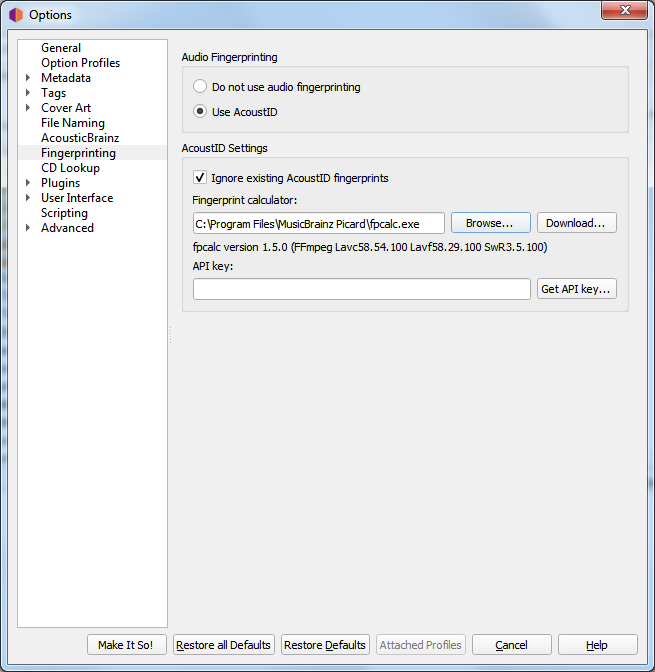
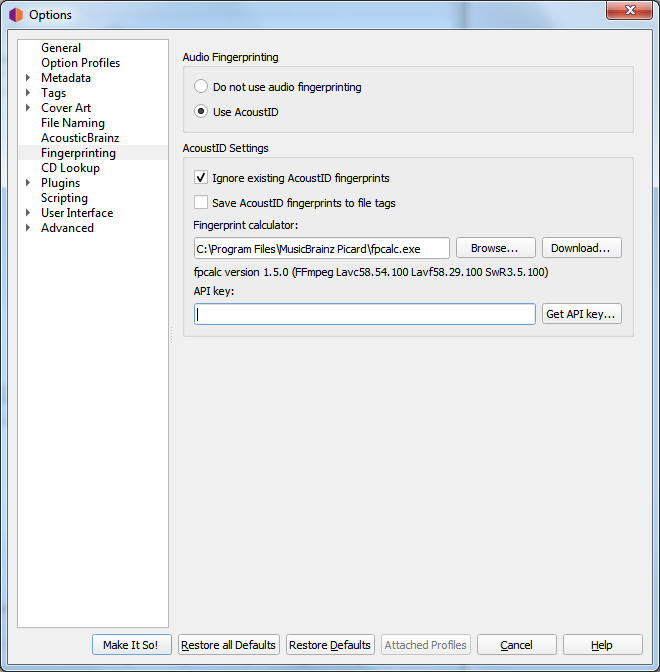
Add "Save AcoustID fingerprint to file tags" option

diff --git a/config/options_fingerprinting.rst b/config/options_fingerprinting.rst
@@ -17,13 +17,21 @@ MusicBrainz currently supports only `AcoustID <https://musicbrainz.org/doc/Acous
 **Audio Fingerprinting**
 
    This allows you to select whether or not to enable acoustic fingerprinting within Picard.
-   If acoustic fingerprinting is diabled then all remaining options in this tab will be locked and
+   If acoustic fingerprinting is disabled then all remaining options in this tab will be locked and
    ignored.
 
 **Ignore existing AcoustID fingerprints**
 
    When checked, any existing AcoustID fingerprint information will not be used, and the files will be
    rescanned.
+
+**Save AcoustID fingerprints to file tags**
+
+   When checked, the AcoustID fingerprint information from scanned files will be saved to the `acoustid_fingerprint`
+   tag.  Note that this option is disabled by default because the fingerprint can always be calculated again from
+   the audio file, and it can add a rather long data tag to the file.  The option to save this information has been
+   added as of Picard v2.7 to accommodate use cases such as a workflow where the user adds this tag directly after
+   ripping to avoid having to redo the calculation in the future.
 
 **Fingerprint calculator**
 
